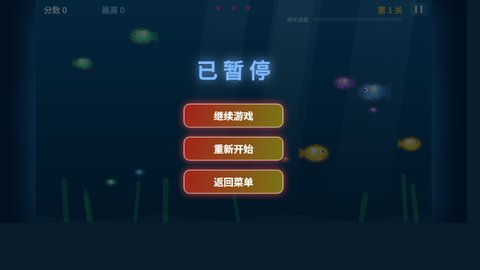
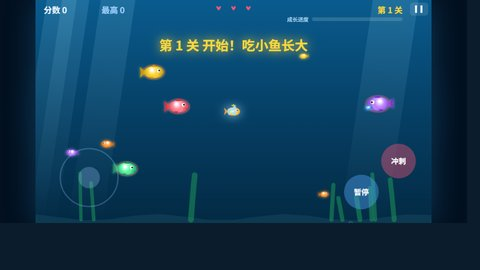
fix: 玩法截图勿按空格以免误触暂停
thumb-preview 进关后不再模拟 Space；识别 PAUSE 态并重新生成宝石迷阵/大鱼吃小鱼缩略图。

diff --git a/public/js/game/thumb-preview.js b/public/js/game/thumb-preview.js
@@ -40,6 +40,10 @@
     } catch (e) {}
   }
 
+  function isPausedState(s) {
+    return s === 2 || s === 'pause' || s === 'paused';
+  }
+
   function isMenuState(s) {
     return s === 0 || s === 'menu' || !!MENU_STATES[s];
   }
@@ -72,7 +76,7 @@
   function gameplayActive() {
     if (typeof Game !== 'undefined' && Game && typeof Game.state !== 'undefined') {
       var s = Game.state;
-      if (isMenuState(s)) return false;
+      if (isMenuState(s) || isPausedState(s)) return false;
       if (s === 'ready') return false;
       if (isPlayState(s)) return true;
     }
@@ -123,8 +127,11 @@
         try { startGame('level'); } catch (e5) {}
       }
     }
-    fireKey('Enter');
-    fireKey('Space');
+    if (typeof Game !== 'undefined' && Game && isPausedState(Game.state)) {
+      fireKey('Space');
+    } else if (typeof Game !== 'undefined' && Game && isMenuState(Game.state)) {
+      fireKey('Enter');
+    }
     if (typeof Game !== 'undefined' && Game && Game.state === 'ready') Game.state = 'playing';
     clickRestart();
     return gameplayActive();

diff --git a/public/games.html b/public/games.html
@@ -47,7 +47,7 @@
     <script src="js/i18n.js?v=minimax1"></script>
     <script src="js/config.js?v=games7"></script>
     <script src="js/common_ui.js?v=minimax1"></script>
-    <script src="js/games-hub.js?v=games10"></script>
+    <script src="js/games-hub.js?v=games12"></script>
     <script>
       (function () {
         function go() { if (typeof renderGamesHub === 'function') renderGamesHub(); }

diff --git a/public/js/admin/game-thumbs.js b/public/js/admin/game-thumbs.js
@@ -166,6 +166,7 @@
         var board = doc.querySelector('.klotski-board .klotski-tile, .gomoku-cell, .puzzle-piece');
         if (board) return true;
       }
+      if (win && typeof Game !== 'undefined' && win.Game && win.Game.state === 2) return false;
       return false;
     }
     if (win && win.__tbThumbReady) return true;

diff --git a/public/js/games-hub.js b/public/js/games-hub.js
@@ -33,7 +33,7 @@
         var url = item.url || '';
         var m = url.match(/html\/game\/([^/?]+)\.html/i);
         if (!m) return '';
-        return 'assets/game/thumbs/' + m[1] + '.jpg?v=3';
+        return 'assets/game/thumbs/' + m[1] + '.jpg?v=5';
     }
 
     function bindSearch(toolbarEl) {

diff --git a/public/html/admin/private/ladder-update.html b/public/html/admin/private/ladder-update.html
@@ -96,6 +96,6 @@
   </main>
 
   <script src="../../../js/admin/ladder-update.js?v=gameThumbs1"></script>
-  <script src="../../../js/admin/game-thumbs.js?v=gameThumbs2"></script>
+  <script src="../../../js/admin/game-thumbs.js?v=gameThumbs4"></script>
 </body>
 </html>
